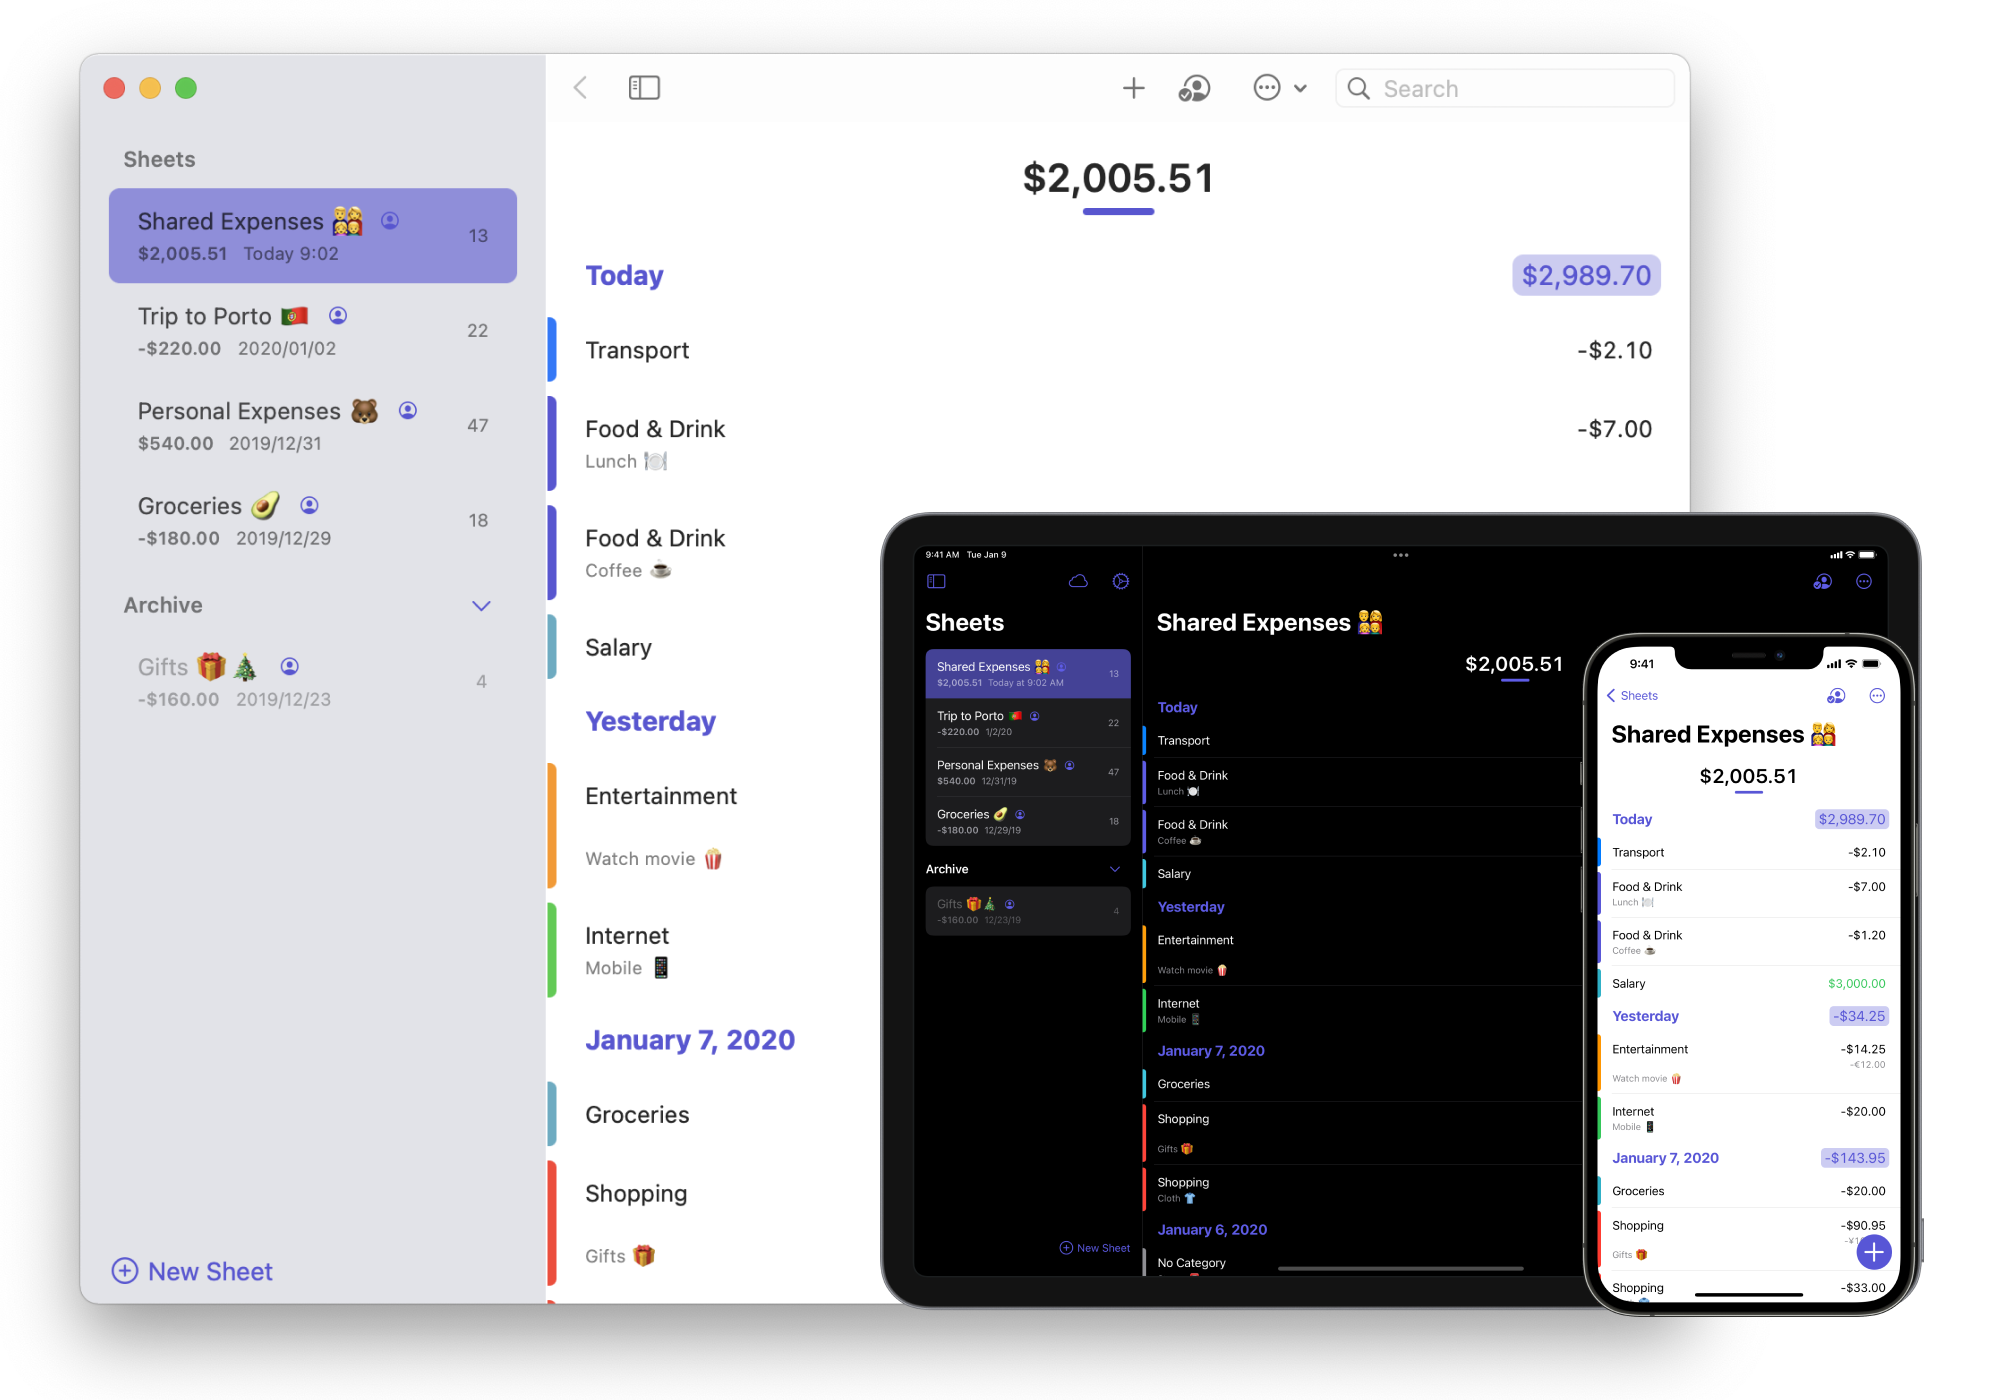
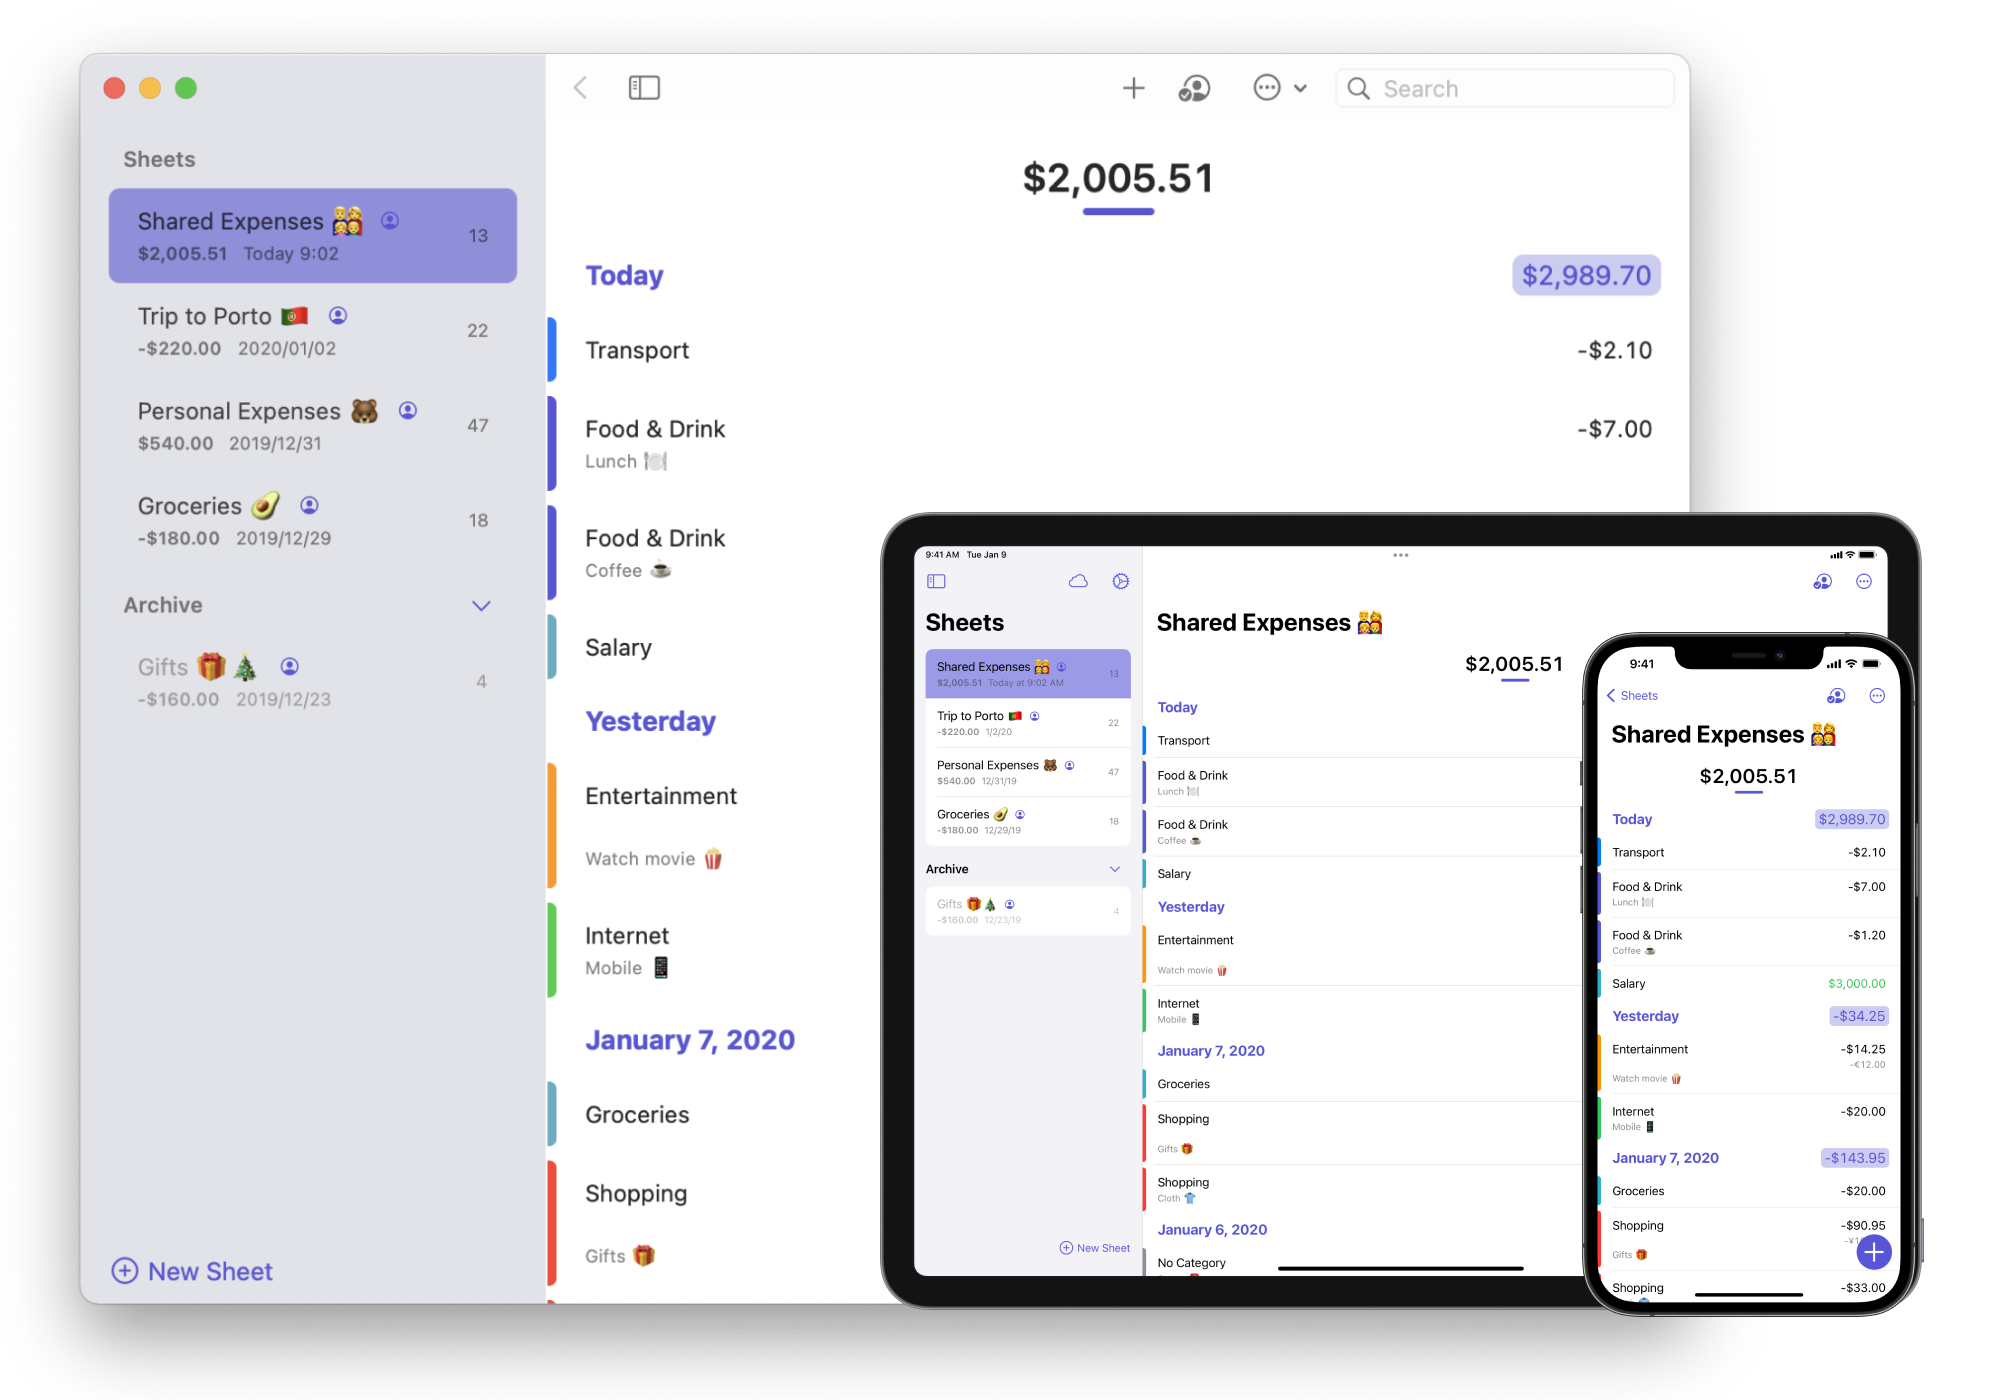
Update index page

Changed region(s): [[0.434, 0.3686, 0.961, 0.9214]]

diff --git a/_includes/index.html b/_includes/index.html
@@ -1,5 +1,8 @@
 <div class="apps-main text-center">
-    <img src="../assets/expenses.png" width="80%">
+    <picture>
+        <source srcset="../assets/expenses-dark.png" width="80%" media="(prefers-color-scheme: dark)">
+        <img src="../assets/expenses.png" width="80%">
+      </picture>
     <h1>Expenses</h1>
     <p><b>Expenses</b> has been crafted to <b>keep track of your spending effortlessly</b>, with useful features in a
         simple, intuitive interface. And with iCloud, it’s easy to <b>keep all your expenses in sync </b>across your
